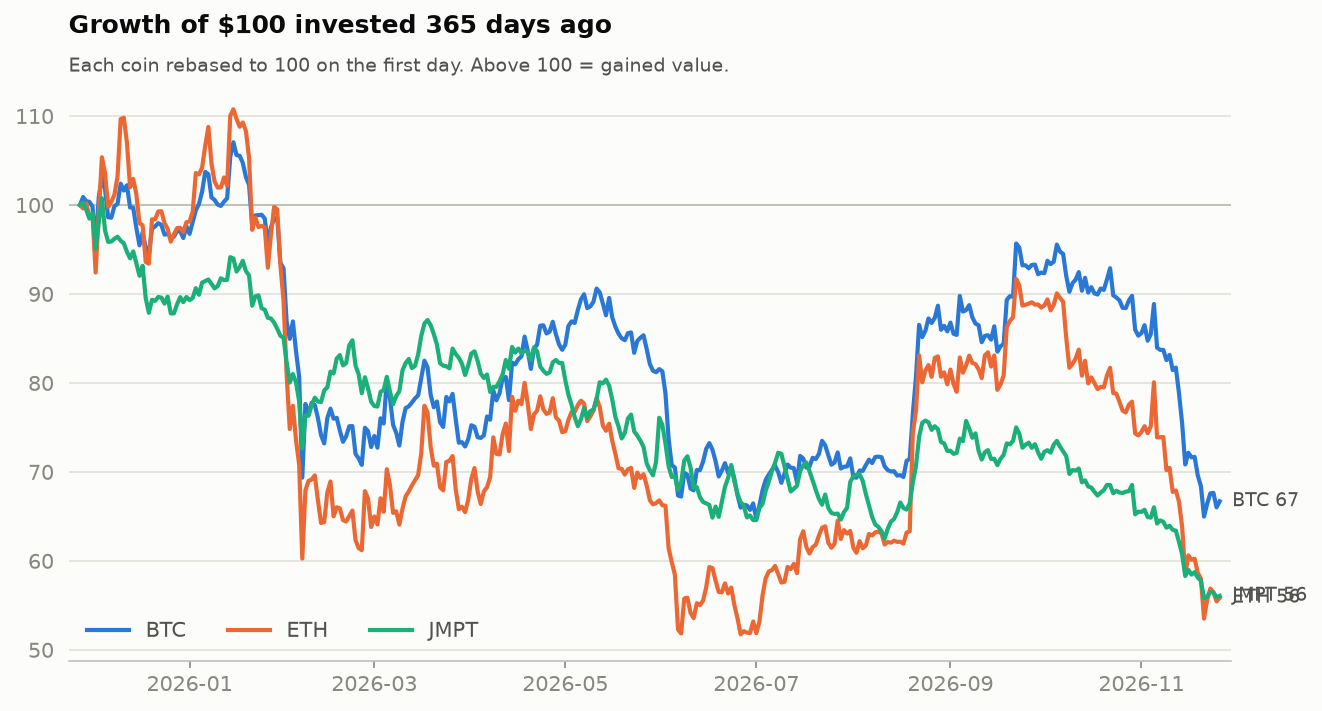
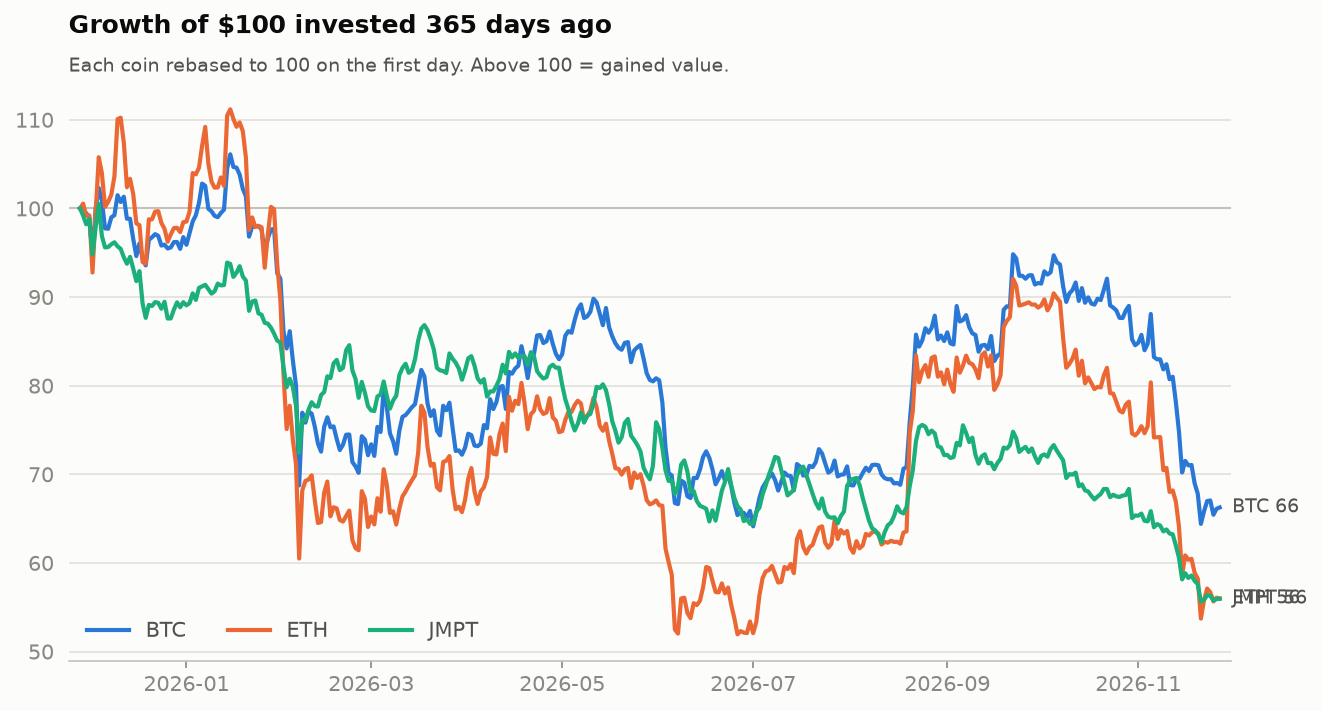
data: market update 2026-11-27

Changed region(s): [[0.0, 0.1547, 0.9924, 0.9902]]

diff --git a/README.md b/README.md
@@ -9,13 +9,13 @@ The project compares two of the largest cryptocurrencies with a small-cap token:
 ## Latest stats
 
 <!-- STATS:START -->
-_Snapshot as of **2026-11-26 00:00 UTC**. Updated automatically every day._
+_Snapshot as of **2026-11-27 00:00 UTC**. Updated automatically every day._
 
 | Coin | Price | 1 day | 7 days | 30 days | 1 year | Volatility (30d) | Market cap |
 |:--|--:|--:|--:|--:|--:|--:|--:|
-| **BTC** Bitcoin | $60,374 | ▲ +1.0% | ▼ -4.2% | ▼ -24.6% | ▼ -30.9% | 48% | $1.21T |
-| **ETH** Ethereum | $1,691 | ▲ +0.7% | ▼ -4.8% | ▼ -27.2% | ▼ -42.9% | 67% | $206.67B |
-| **JMPT** JumpToken | $0.4431 | ▲ +0.3% | ▼ -3.5% | ▼ -17.3% | ▼ -42.9% | 30% | $6.54M |
+| **BTC** Bitcoin | $60,510 | ▲ +0.2% | ▼ -2.3% | ▼ -25.1% | ▼ -33.1% | 48% | $1.22T |
+| **ETH** Ethereum | $1,688 | ▼ -0.2% | ▼ -3.9% | ▼ -28.1% | ▼ -44.2% | 66% | $206.35B |
+| **JMPT** JumpToken | $0.4434 | ▲ +0.1% | ▼ -2.9% | ▼ -17.3% | ▼ -43.9% | 30% | $6.54M |
 <!-- STATS:END -->
 
 ## Charts
